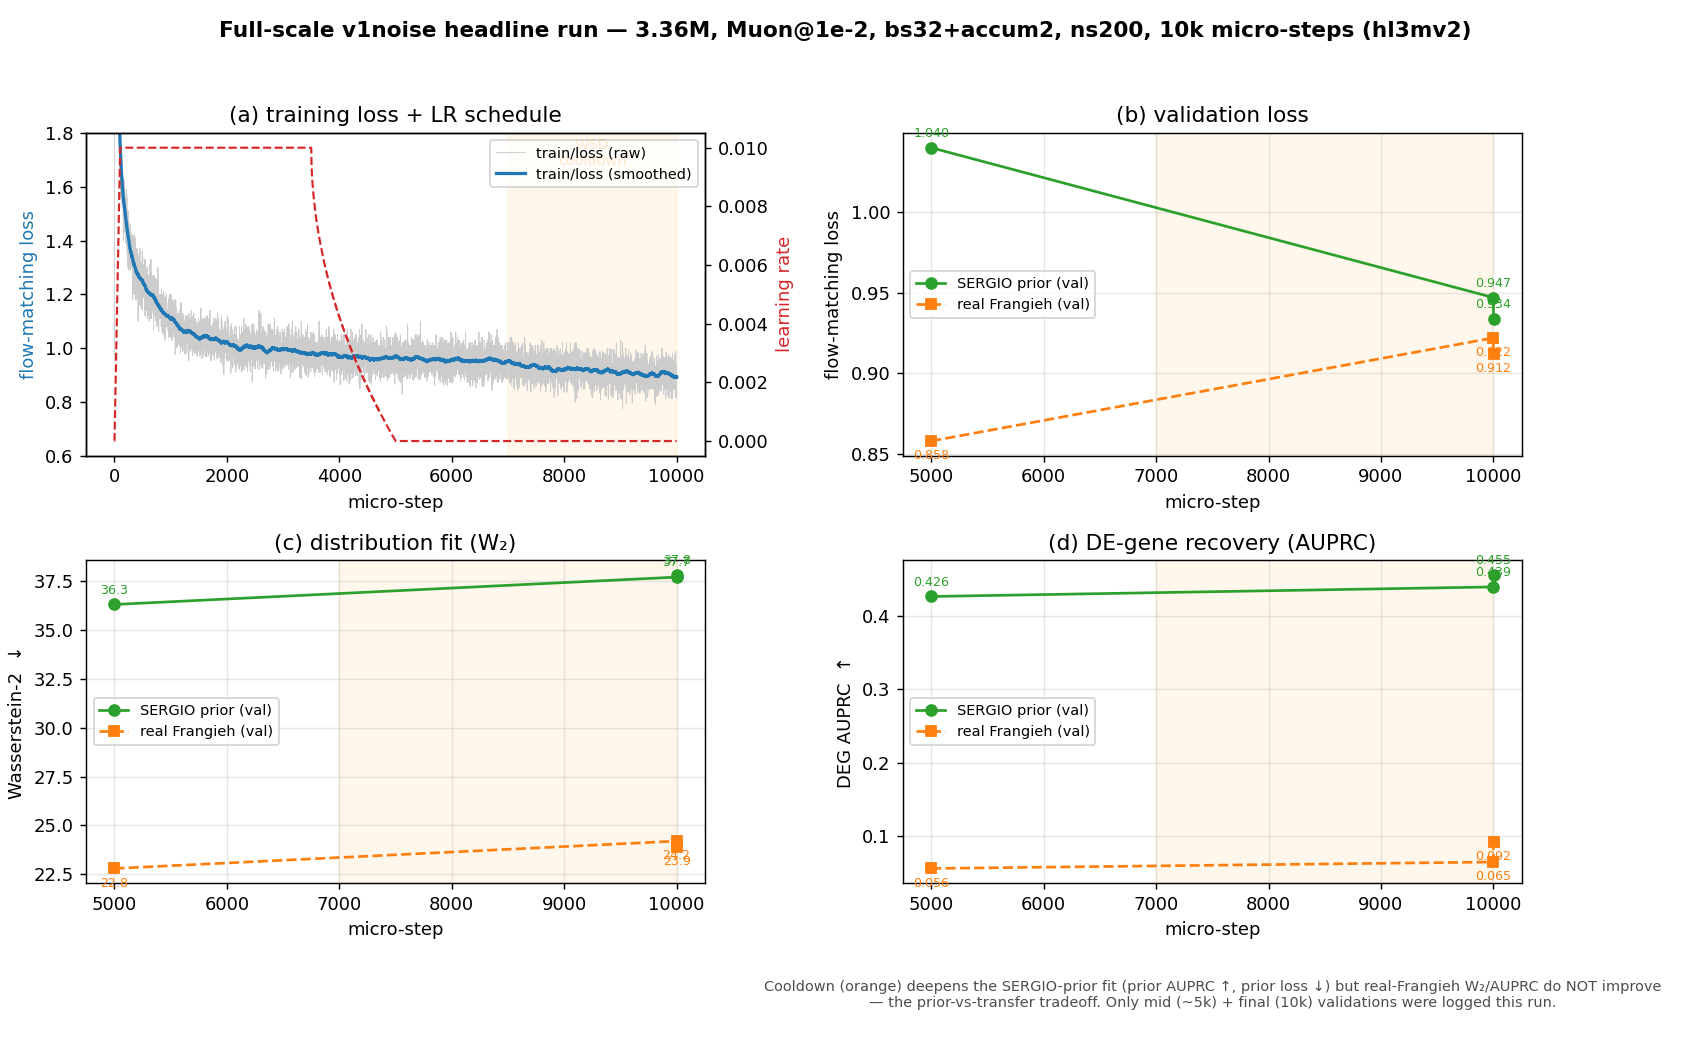
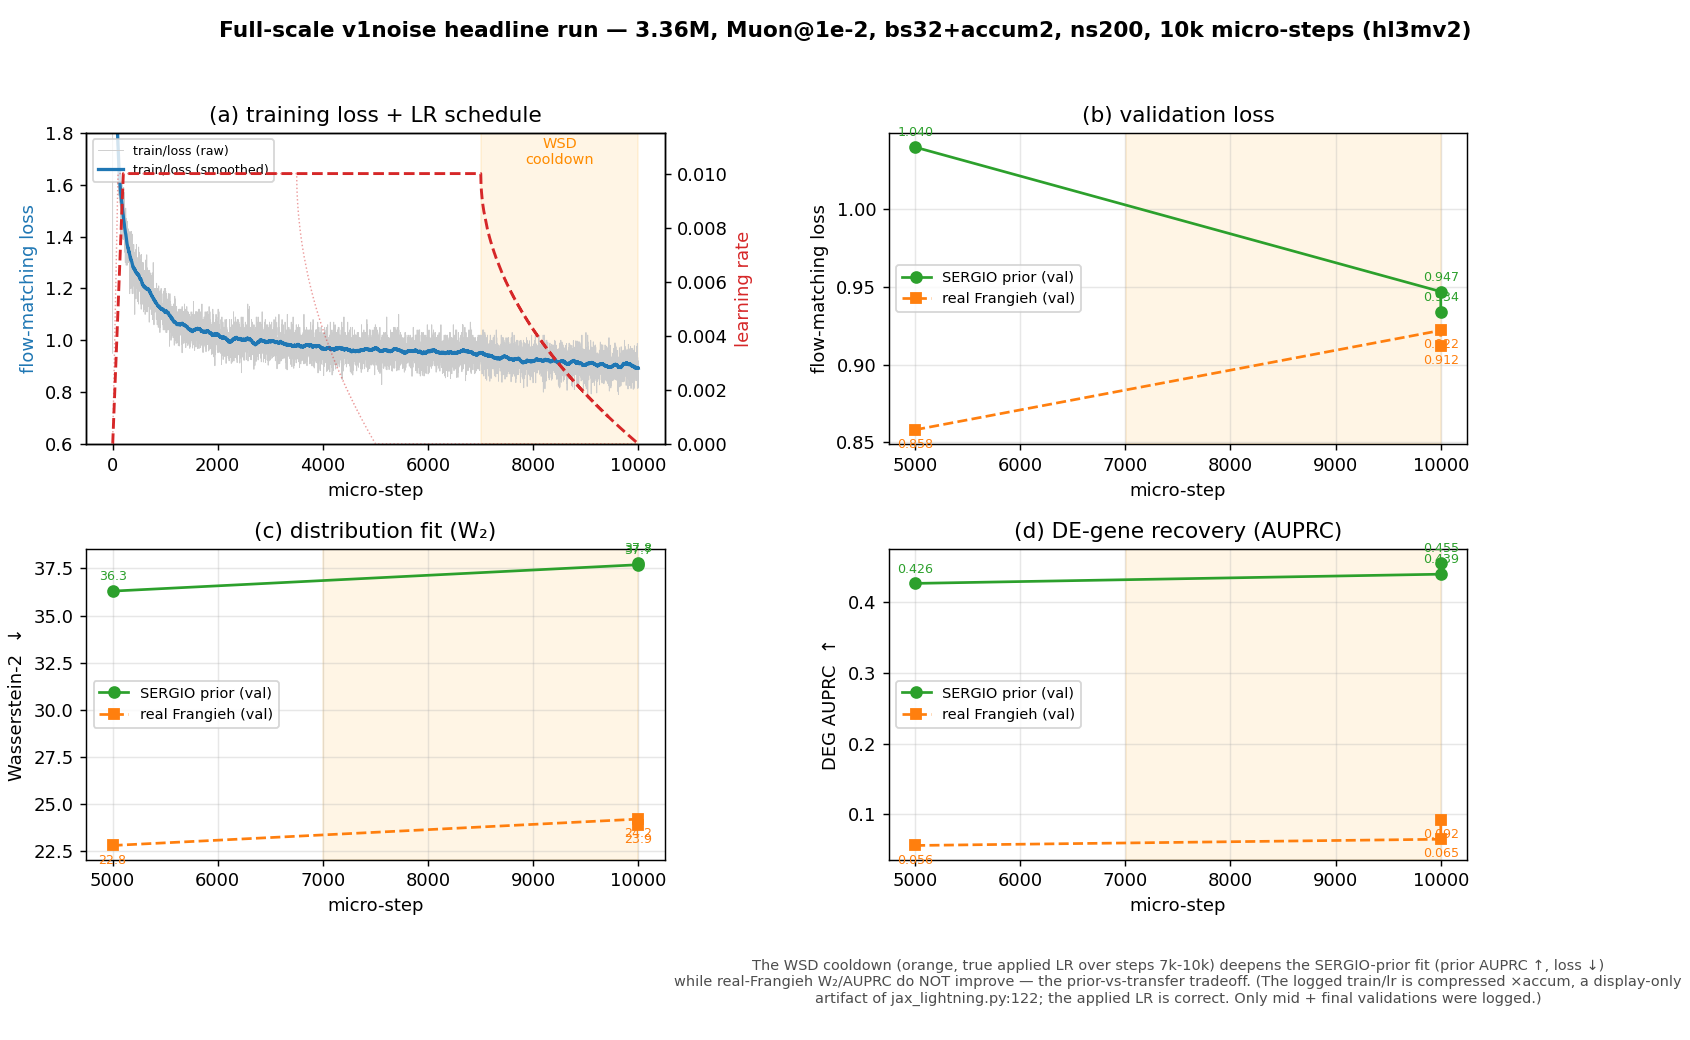
Fix LR curve in training plot: logged lr is an accum display artifact
The bar's train/lr (jax_lightning.py:122) evaluates the schedule at global_step
(micro-steps) while total_steps was sized in optimizer updates (num_steps/accum),
so the LOGGED lr is compressed by `accum` and appears to hit 0 at the midpoint.
The APPLIED lr (optimizer wrapped in MultiSteps(every_k=accum)) advances once per
update and decays correctly over the full run (true WSD cooldown = steps 7k-10k).

plot_headline.py now reconstructs the true applied lr = logged(step/accum), plots
it alongside the faint logged artifact, shades the real cooldown (7k-10k), and the
caption notes the logging artifact. Training was fine; no schedule bug.

diff --git a/bench/plot_headline.py b/bench/plot_headline.py
@@ -37,7 +37,9 @@ def parse_train_log(path: Path):
     # epoch*EPOCH_LEN + N. EPOCH_LEN is read from the bar ("N/<EPOCH_LEN>").
     text = path.read_text(errors="replace").replace("\r", "\n")
     num = r"([-\d.eE+]+)"
-    by_step = {}     # true_step -> (loss, lr)
+    loss_by_step = {}  # true_step -> last loss
+    lr_by_step = {}     # true_step -> MAX lr (the bar logs lr=0.000 on validation
+                        # repaints and sub-resolution steps; max recovers the real value)
     val_rows = {}    # true_step -> dict (first time each val-tuple appears)
     seen_val = set()
     epoch = 0
@@ -55,7 +57,9 @@ def parse_train_log(path: Path):
         tl = re.search(r"train/loss=" + num, line)
         lr = re.search(r"train/lr=" + num, line)
         try:
-            by_step[step] = (float(tl.group(1)), float(lr.group(1)) if lr else np.nan)
+            loss_by_step[step] = float(tl.group(1))
+            if lr:
+                lr_by_step[step] = max(lr_by_step.get(step, -1.0), float(lr.group(1)))
         except (ValueError, AttributeError):
             pass
         if "val/wasserstein/prior=" in line:
@@ -68,9 +72,9 @@ def parse_train_log(path: Path):
                 if key not in seen_val:
                     seen_val.add(key)
                     val_rows[step] = {k: float(v.group(1)) for k, v in m.items()}
-    steps = np.array(sorted(by_step))
-    tloss = np.array([by_step[s][0] for s in steps])
-    tlr = np.array([by_step[s][1] for s in steps])
+    steps = np.array(sorted(loss_by_step))
+    tloss = np.array([loss_by_step[s] for s in steps])
+    tlr = np.array([lr_by_step.get(s, np.nan) for s in steps])
     vsteps = np.array(sorted(val_rows))
     vals = {k: np.array([val_rows[s][k] for s in vsteps])
             for k in next(iter(val_rows.values()))}
@@ -89,7 +93,17 @@ fig.suptitle(
     fontsize=12, fontweight="bold",
 )
 
-COOLDOWN_START = 7000  # WSD decay_frac=0.3 over 10k micro-steps
+# IMPORTANT: the logged `train/lr` (line 122 in jax_lightning.py) evaluates the schedule
+# at `global_step` = MICRO-steps, but the schedule's total_steps was sized in OPTIMIZER
+# UPDATES (=num_steps/accum). Under accum>1 the optimizer is wrapped in MultiSteps, so the
+# APPLIED lr advances once per accum micro-steps. => the logged lr is horizontally
+# compressed by `accum` (appears to hit 0 at step 5000), but the lr actually applied to
+# the weights decays over the full run. Reconstruct the true applied lr = logged(step/accum).
+ACCUM = 2
+true_lr = np.interp(steps / ACCUM, steps, np.nan_to_num(tlr, nan=0.0))
+PEAK = np.nanmax(tlr) if np.isfinite(tlr).any() else 0.01
+_decaying = steps[(true_lr < 0.99 * PEAK) & (steps > 500)]
+COOLDOWN_START = int(_decaying.min()) if len(_decaying) else 7000   # ~7000 (last 30%)
 
 
 def labelpts(ax, xs, ys, fmt="{:.3f}", dy=0.0, color="k"):
@@ -99,7 +113,7 @@ def labelpts(ax, xs, ys, fmt="{:.3f}", dy=0.0, color="k"):
 
 
 def cooldown_span(ax):
-    ax.axvspan(COOLDOWN_START, 10000, color="orange", alpha=0.08)
+    ax.axvspan(COOLDOWN_START, 10000, color="orange", alpha=0.10)   # true WSD cooldown
 
 
 # (a) train loss + LR
@@ -116,11 +130,15 @@ a.set_ylabel("flow-matching loss", color="C0")
 a.set_ylim(0.6, 1.8)
 a.set_title("(a) training loss + LR schedule")
 a2 = a.twinx()
-a2.plot(steps, tlr, color="C3", lw=1.2, ls="--", label="train/lr")
+a2.plot(steps, true_lr, color="C3", lw=1.6, ls="--", label="train/lr (applied)")
+a2.plot(steps, tlr, color="C3", lw=0.8, ls=":", alpha=0.45,
+        label="train/lr (logged — accum artifact)")
 a2.set_ylabel("learning rate", color="C3")
+a2.set_ylim(0, PEAK * 1.15)
 cooldown_span(a)
-a.text(8500, 1.68, "WSD\ncooldown", ha="center", color="darkorange", fontsize=8)
-a.legend(loc="upper right", fontsize=8)
+a.text((COOLDOWN_START + 10000) / 2, 1.68, "WSD\ncooldown", ha="center",
+       color="darkorange", fontsize=8)
+a.legend(loc="upper left", fontsize=7)
 
 # (b) val loss: prior vs real-Frangieh
 b = ax[0, 1]
@@ -151,10 +169,12 @@ labelpts(d, vsteps, vals["val/deg_auprc"], dy=-16, color="C1")
 cooldown_span(d)
 d.set_xlabel("micro-step"); d.set_ylabel("DEG AUPRC  ↑")
 d.set_title("(d) DE-gene recovery (AUPRC)"); d.legend(fontsize=8); d.grid(alpha=0.3)
-d.text(0.5, -0.30,
-       "Cooldown (orange) deepens the SERGIO-prior fit (prior AUPRC ↑, prior loss ↓) "
-       "but real-Frangieh W₂/AUPRC do NOT improve\n— the prior-vs-transfer tradeoff. "
-       "Only mid (~5k) + final (10k) validations were logged this run.",
+d.text(0.5, -0.32,
+       "The WSD cooldown (orange, true applied LR over steps 7k-10k) deepens the SERGIO-prior "
+       "fit (prior AUPRC ↑, loss ↓)\nwhile real-Frangieh W₂/AUPRC do NOT improve — the "
+       "prior-vs-transfer tradeoff. (The logged train/lr is compressed ×accum, a display-only\n"
+       "artifact of jax_lightning.py:122; the applied LR is correct. Only mid + final "
+       "validations were logged.)",
        transform=d.transAxes, ha="center", va="top", fontsize=8, color="0.3")
 
 fig.tight_layout(rect=[0, 0, 1, 0.96])
